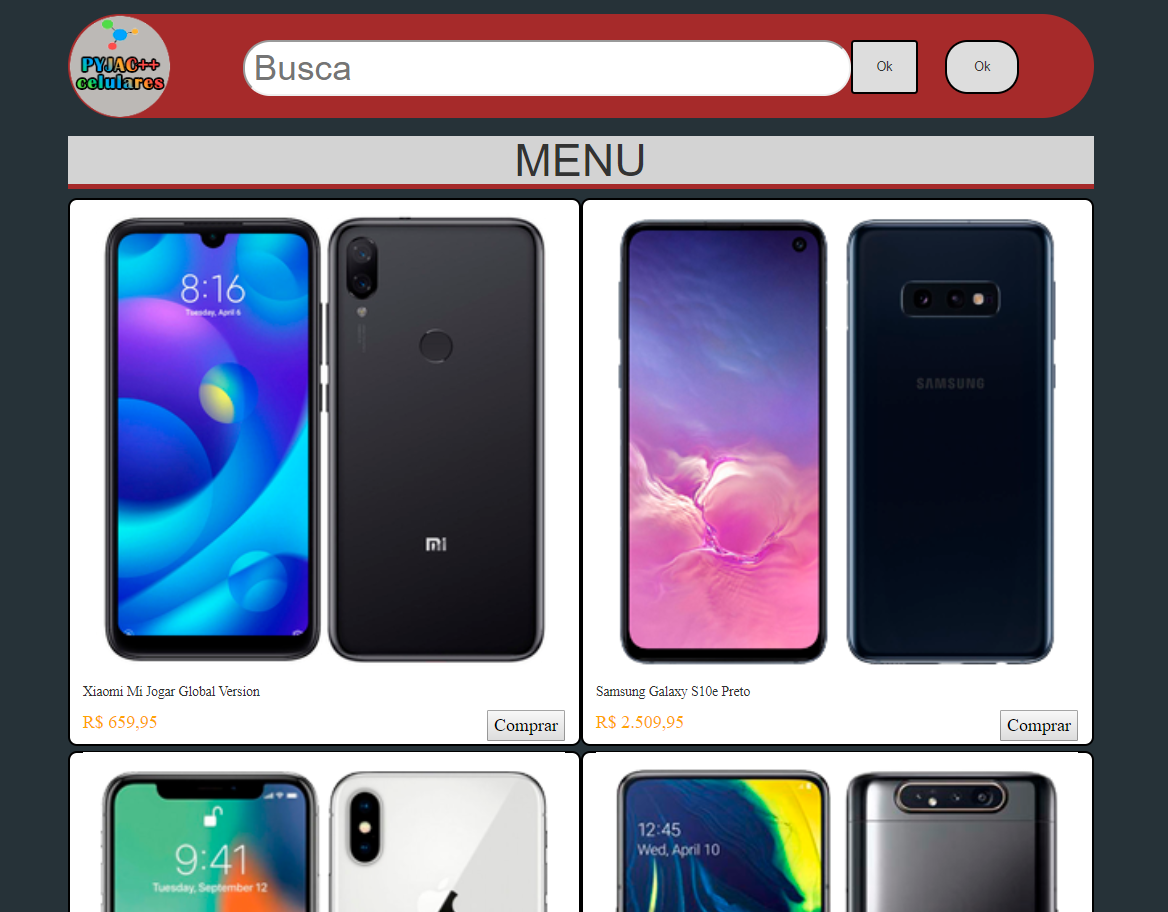
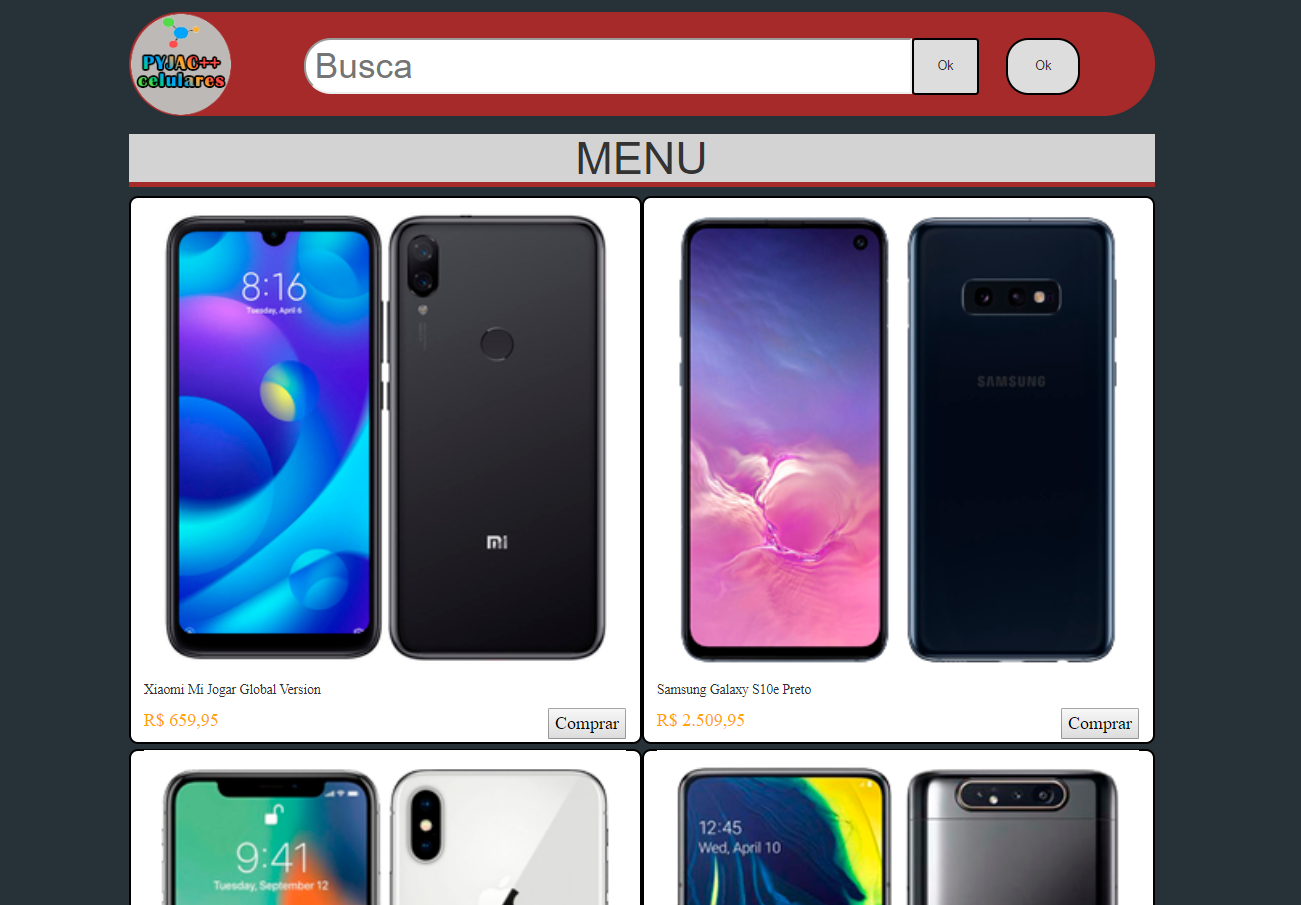
Add files via upload

diff --git a/Vitrine/estilo.css b/Vitrine/estilo.css
@@ -12,13 +12,14 @@ body{
 #txtBusca{
 	width: 90%;
 	float: left;
-	border-radius: 30px;
+	border-bottom-left-radius: 30px;
+	border-top-left-radius: 30px; 
 	padding-left: 10px;
 	font-size: 280%;
 }
 #botaoBusca{
 	width: 10%;
-	height: 60px;
+	height: 63px;
 	border: 2px solid black;
 }
 #botaoCadastro{
@@ -26,7 +27,7 @@ body{
  	border-radius: 25px;
 	float: left;
 	margin-top: 29px;
-	height: 60px;
+	height: 63px;
 	width: 50%;
 }
 h1{ /*MENU*/
@@ -71,11 +72,11 @@ h1{ /*MENU*/
 	}
 	#botaoBusca{
 		width: 15%;
-		height: 50px;
+		height: 52px;
 	}
 	#botaoCadastro{
 		width: 40%;
-		height: 50px;
+		height: 52px;
 	}
 }
 
@@ -86,7 +87,7 @@ h1{ /*MENU*/
 	}
 	#botaoBusca{
 		width: 20%;
-		height: 50px;
+		height: 52px;
 	}
 	#celularback {
 		border-radius: 10px;
